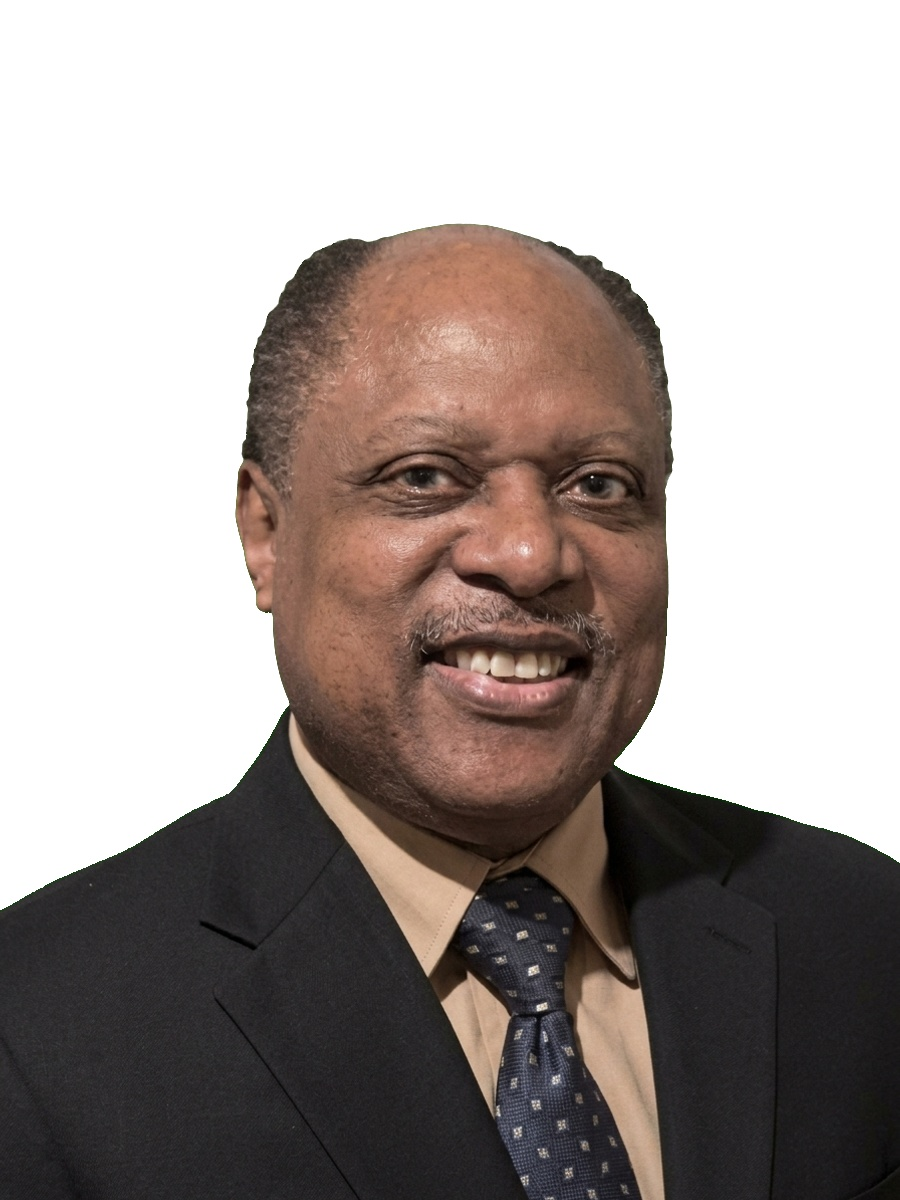
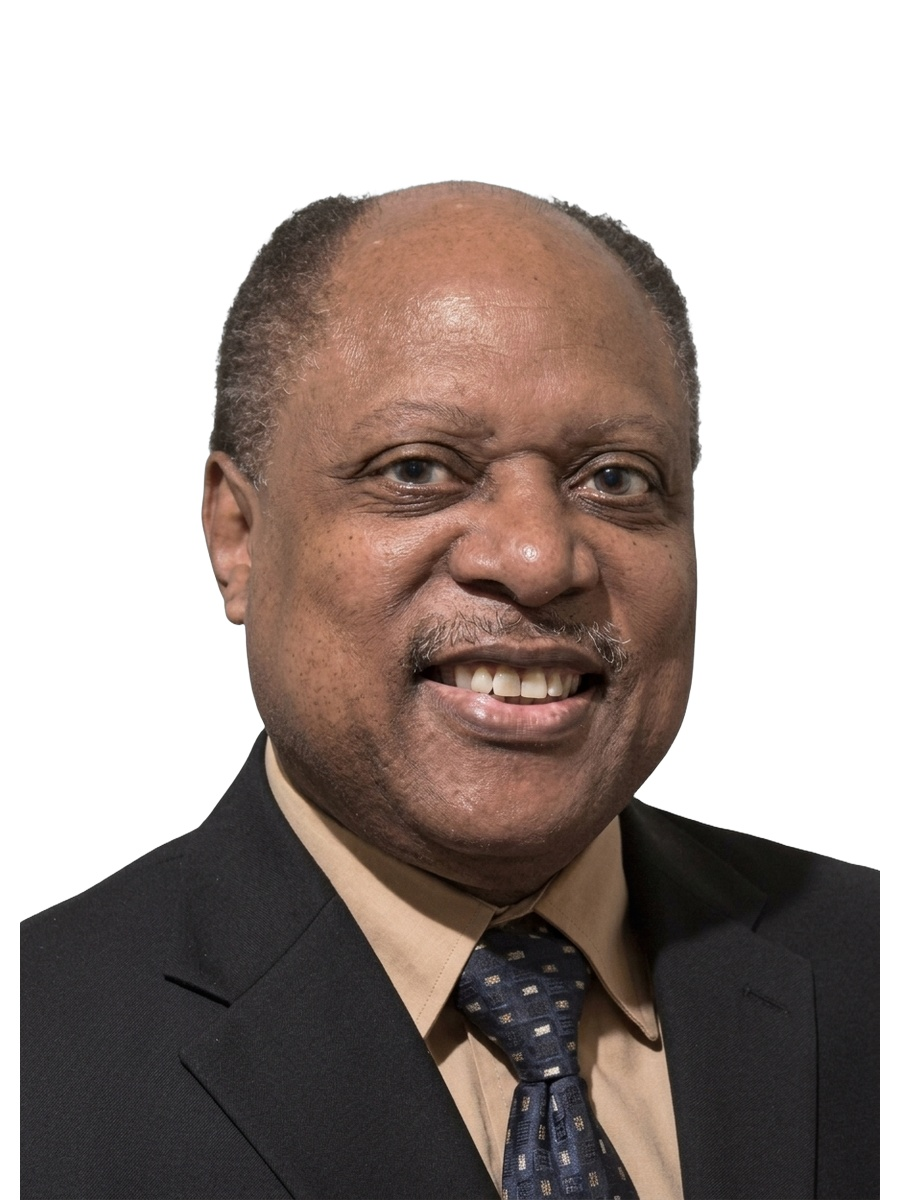
fix(steering): align steering cards with welcome letter, enable transparent background with dot pattern hover effect, and restore Imre and Sam copies

diff --git a/src/components/sections/CommitteesSection.tsx b/src/components/sections/CommitteesSection.tsx
@@ -273,69 +273,96 @@ export function CommitteesSection({
               return (
                 <div
                   key={`${member.name}-${index}`}
-                  className="w-[280px] sm:w-[320px] shrink-0 bg-white border border-slate-200 hover:border-[#115eff] rounded-xl shadow-2xs hover:shadow-lg transition-all duration-300 flex flex-col justify-between overflow-hidden group"
+                  className="w-[280px] sm:w-[320px] shrink-0 group relative flex flex-col"
                   style={{ scrollSnapAlign: "start" }}
                 >
-                  {/* Photo Frame or Academic Avatar Badge */}
-                  <div className="relative w-full h-56 sm:h-64 bg-slate-50 border-b border-slate-100 flex items-center justify-center overflow-hidden">
-                    {photo ? (
-                      <Image
-                        src={photo}
-                        alt={member.name}
-                        fill
-                        className="object-cover object-top transition-transform duration-500 group-hover:scale-105"
-                        sizes="320px"
-                      />
-                    ) : (
-                      <div className="w-24 h-24 rounded-full bg-gradient-to-br from-blue-50 to-blue-100 border border-blue-200 flex items-center justify-center text-[#115eff] font-bold text-2xl shadow-inner group-hover:scale-105 transition-transform">
-                        {member.name
-                          .split(" ")
-                          .map((n) => n[0])
-                          .filter(Boolean)
-                          .slice(-2)
-                          .join("")}
+                  {/* The Card Box - Clean overflow-hidden container */}
+                  <div className="relative rounded-2xl bg-white border border-slate-200 group-hover:border-[#115eff] transition-all duration-300 flex flex-col flex-1 overflow-hidden shadow-2xs hover:shadow-md">
+                    {/* Top: Image Canvas with Slate/White Background (Hover: Solid Primary Blue #115eff) */}
+                    <div className="relative w-full h-64 sm:h-72 bg-slate-50/70 group-hover:bg-[#115eff] transition-colors duration-300 overflow-hidden flex items-end justify-center pt-4 px-2">
+                      {/* Clipped background elements (dots only) behind the cutout */}
+                      <div className="absolute inset-0 overflow-hidden pointer-events-none">
+                        {/* Blue Dot Pattern */}
+                        <div
+                          className="absolute inset-0 bg-dot-pattern opacity-50 group-hover:opacity-0 transition-opacity duration-300 pointer-events-none"
+                          style={{
+                            maskImage:
+                              "linear-gradient(to bottom right, transparent 25%, black 75%)",
+                            WebkitMaskImage:
+                              "linear-gradient(to bottom right, transparent 25%, black 75%)",
+                          }}
+                        />
+
+                        {/* Crisp White Dot Pattern in hover (blue) state */}
+                        <div
+                          className="absolute inset-0 bg-dot-pattern-white opacity-0 group-hover:opacity-45 transition-opacity duration-300 pointer-events-none"
+                          style={{
+                            maskImage:
+                              "linear-gradient(to bottom right, transparent 25%, black 75%)",
+                            WebkitMaskImage:
+                              "linear-gradient(to bottom right, transparent 25%, black 75%)",
+                          }}
+                        />
                       </div>
-                    )}
 
-                    {/* Role Badge pinned at top-left */}
-                    <div className="absolute top-3 left-3 z-10">
-                      <span className="inline-block px-2.5 py-1 rounded bg-[#115eff] text-white text-[11px] font-bold uppercase tracking-wider shadow-xs">
-                        {member.role}
-                      </span>
+                      {/* Role Badge pinned at top-left */}
+                      <div className="absolute top-3 left-3 z-20">
+                        <span className="inline-block px-2.5 py-0.5 rounded bg-blue-50 text-[#115eff] border border-blue-200 group-hover:bg-white group-hover:text-[#115eff] group-hover:border-white text-[11px] font-bold uppercase tracking-wider shadow-xs transition-colors duration-300">
+                          {member.role}
+                        </span>
+                      </div>
+
+                      {/* Country Badge at top-right */}
+                      <div className="absolute top-3 right-3 z-20">
+                        <span className="inline-flex items-center gap-1 px-2 py-0.5 rounded bg-white/90 backdrop-blur-xs border border-slate-200 text-[11px] font-semibold text-slate-700 shadow-2xs group-hover:bg-white group-hover:text-[#115eff] group-hover:border-transparent transition-colors duration-300">
+                          <Globe className="w-3 h-3 text-[#115eff]" />
+                          <span>{member.country}</span>
+                        </span>
+                      </div>
+
+                      {/* Image strictly scaled and fitted inside the container */}
+                      <div className="relative w-full h-full flex items-end justify-center z-10">
+                        {photo ? (
+                          <Image
+                            src={photo}
+                            alt={member.name}
+                            width={360}
+                            height={440}
+                            className="h-full w-auto max-h-full max-w-full object-contain object-bottom transition-transform duration-300 ease-out group-hover:scale-105"
+                            sizes="320px"
+                          />
+                        ) : (
+                          <div className="w-24 h-24 mb-6 rounded-full bg-white border border-blue-200 flex items-center justify-center text-[#115eff] font-bold text-2xl shadow-inner group-hover:scale-105 transition-transform">
+                            {member.name
+                              .split(" ")
+                              .map((n) => n[0])
+                              .filter(Boolean)
+                              .slice(-2)
+                              .join("")}
+                          </div>
+                        )}
+                      </div>
                     </div>
 
-                    {/* Country Badge at top-right */}
-                    <div className="absolute top-3 right-3 z-10">
-                      <span className="inline-flex items-center gap-1 px-2 py-0.5 rounded bg-white/90 backdrop-blur-xs border border-slate-200 text-[11px] font-semibold text-slate-700 shadow-2xs">
-                        <Globe className="w-3 h-3 text-[#115eff]" />
-                        <span>{member.country}</span>
-                      </span>
-                    </div>
-                  </div>
-
-                  {/* Member Details */}
-                  <div className="p-5 flex flex-col justify-between flex-1">
-                    <div>
-                      <h3 className="text-lg font-bold text-[#004776] group-hover:text-[#115eff] transition-colors leading-snug">
-                        {member.name}
-                      </h3>
-                      <p className="text-xs text-slate-600 font-medium mt-1.5 leading-relaxed">
-                        {member.role} • IEEE SMC 2027
-                      </p>
-                      {member.affiliation && (
-                        <p className="text-xs text-slate-500 font-normal mt-1 leading-snug">
+                    {/* Bottom Details Section */}
+                    <div className="relative z-20 w-full p-5 bg-white group-hover:bg-[#115eff] border-t border-slate-200 group-hover:border-white/20 transition-colors duration-300 flex flex-col justify-between flex-1">
+                      <div className="relative z-10">
+                        <h4 className="text-base sm:text-lg font-bold text-[#004776] group-hover:!text-white tracking-tight leading-snug transition-colors duration-300">
+                          {member.name}
+                        </h4>
+                        <p className="text-xs text-[#004776]/70 group-hover:!text-white/90 mt-1.5 font-medium leading-relaxed transition-colors duration-300">
                           {member.affiliation}
                         </p>
-                      )}
-                    </div>
+                      </div>
 
-                    <div className="mt-4 pt-3 border-t border-slate-100 flex items-center justify-between text-xs text-slate-500">
-                      <span className="font-semibold text-slate-600">
-                        {member.country}
-                      </span>
-                      <span className="text-[#115eff] font-bold flex items-center gap-1 group-hover:underline">
-                        <span>Delegate</span>
-                      </span>
+                      <div className="mt-4 pt-3 border-t border-slate-100 group-hover:border-white/20 flex items-center justify-between text-xs text-slate-500 group-hover:text-white/80 transition-colors duration-300">
+                        <span className="font-semibold text-slate-600 group-hover:text-white">
+                          {member.country}
+                        </span>
+                        <span className="text-[#115eff] group-hover:text-white font-bold flex items-center gap-1">
+                          <span>Delegate</span>
+                        </span>
+                      </div>
                     </div>
                   </div>
                 </div>
